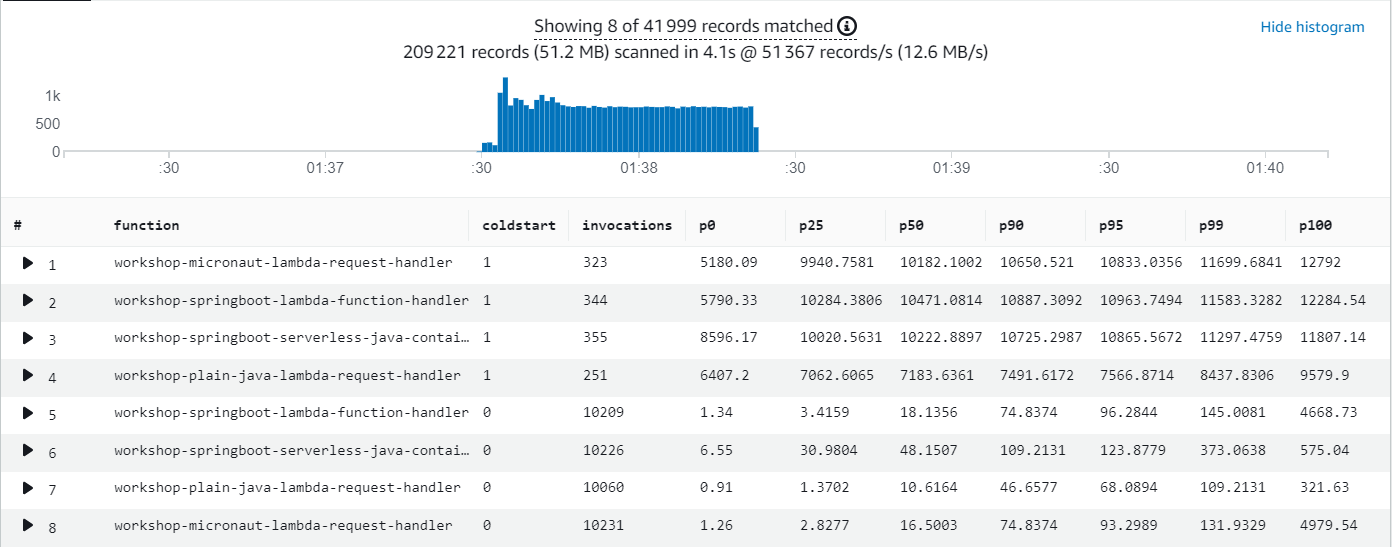
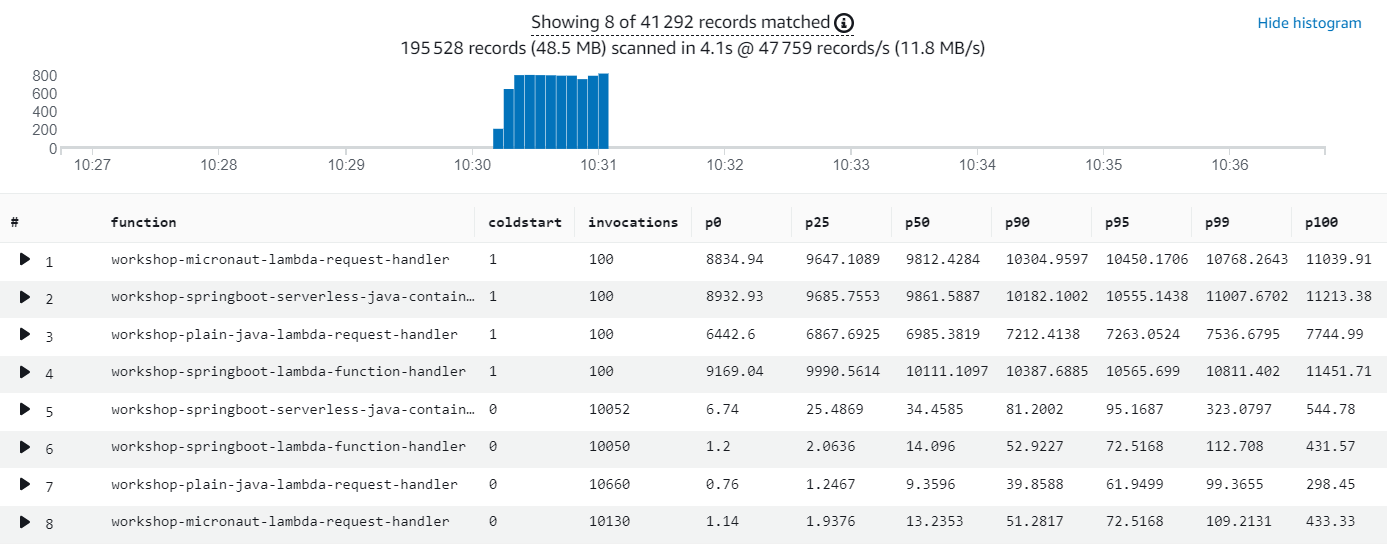
Updating benchmark images

diff --git a/demo-micronaut-app-lambda-request-handler/src/main/java/com/atn/digital/user/adapters/out/persistence/dynamodb/UserServiceWithPriming.java b/demo-micronaut-app-lambda-request-handler/src/main/java/com/atn/digital/user/adapters/out/persistence/dynamodb/UserServiceWithPriming.java
@@ -14,7 +14,7 @@ import io.micronaut.crac.OrderedResource;
 import jakarta.inject.Inject;
 import jakarta.inject.Singleton;
 import org.crac.Context;
-// import org.crac.Core;
+import org.crac.Core;
 import org.crac.Resource;
 
 import java.util.UUID;
@@ -29,7 +29,7 @@ public class UserServiceWithPriming implements OrderedResource {
         UserRepository adapter = new DynamoDbUserRepository(initializer.client());
         registerNewUserUseCase = new RegisterNewUserService(adapter);
         findUserByIdQuery = new FindUserByIdService(adapter);
-        // Core.getGlobalContext().register(this);
+        Core.getGlobalContext().register(this);
     }
 
     public UserId handle(RegisterNewUserCommand registerNewUserCommand) {
